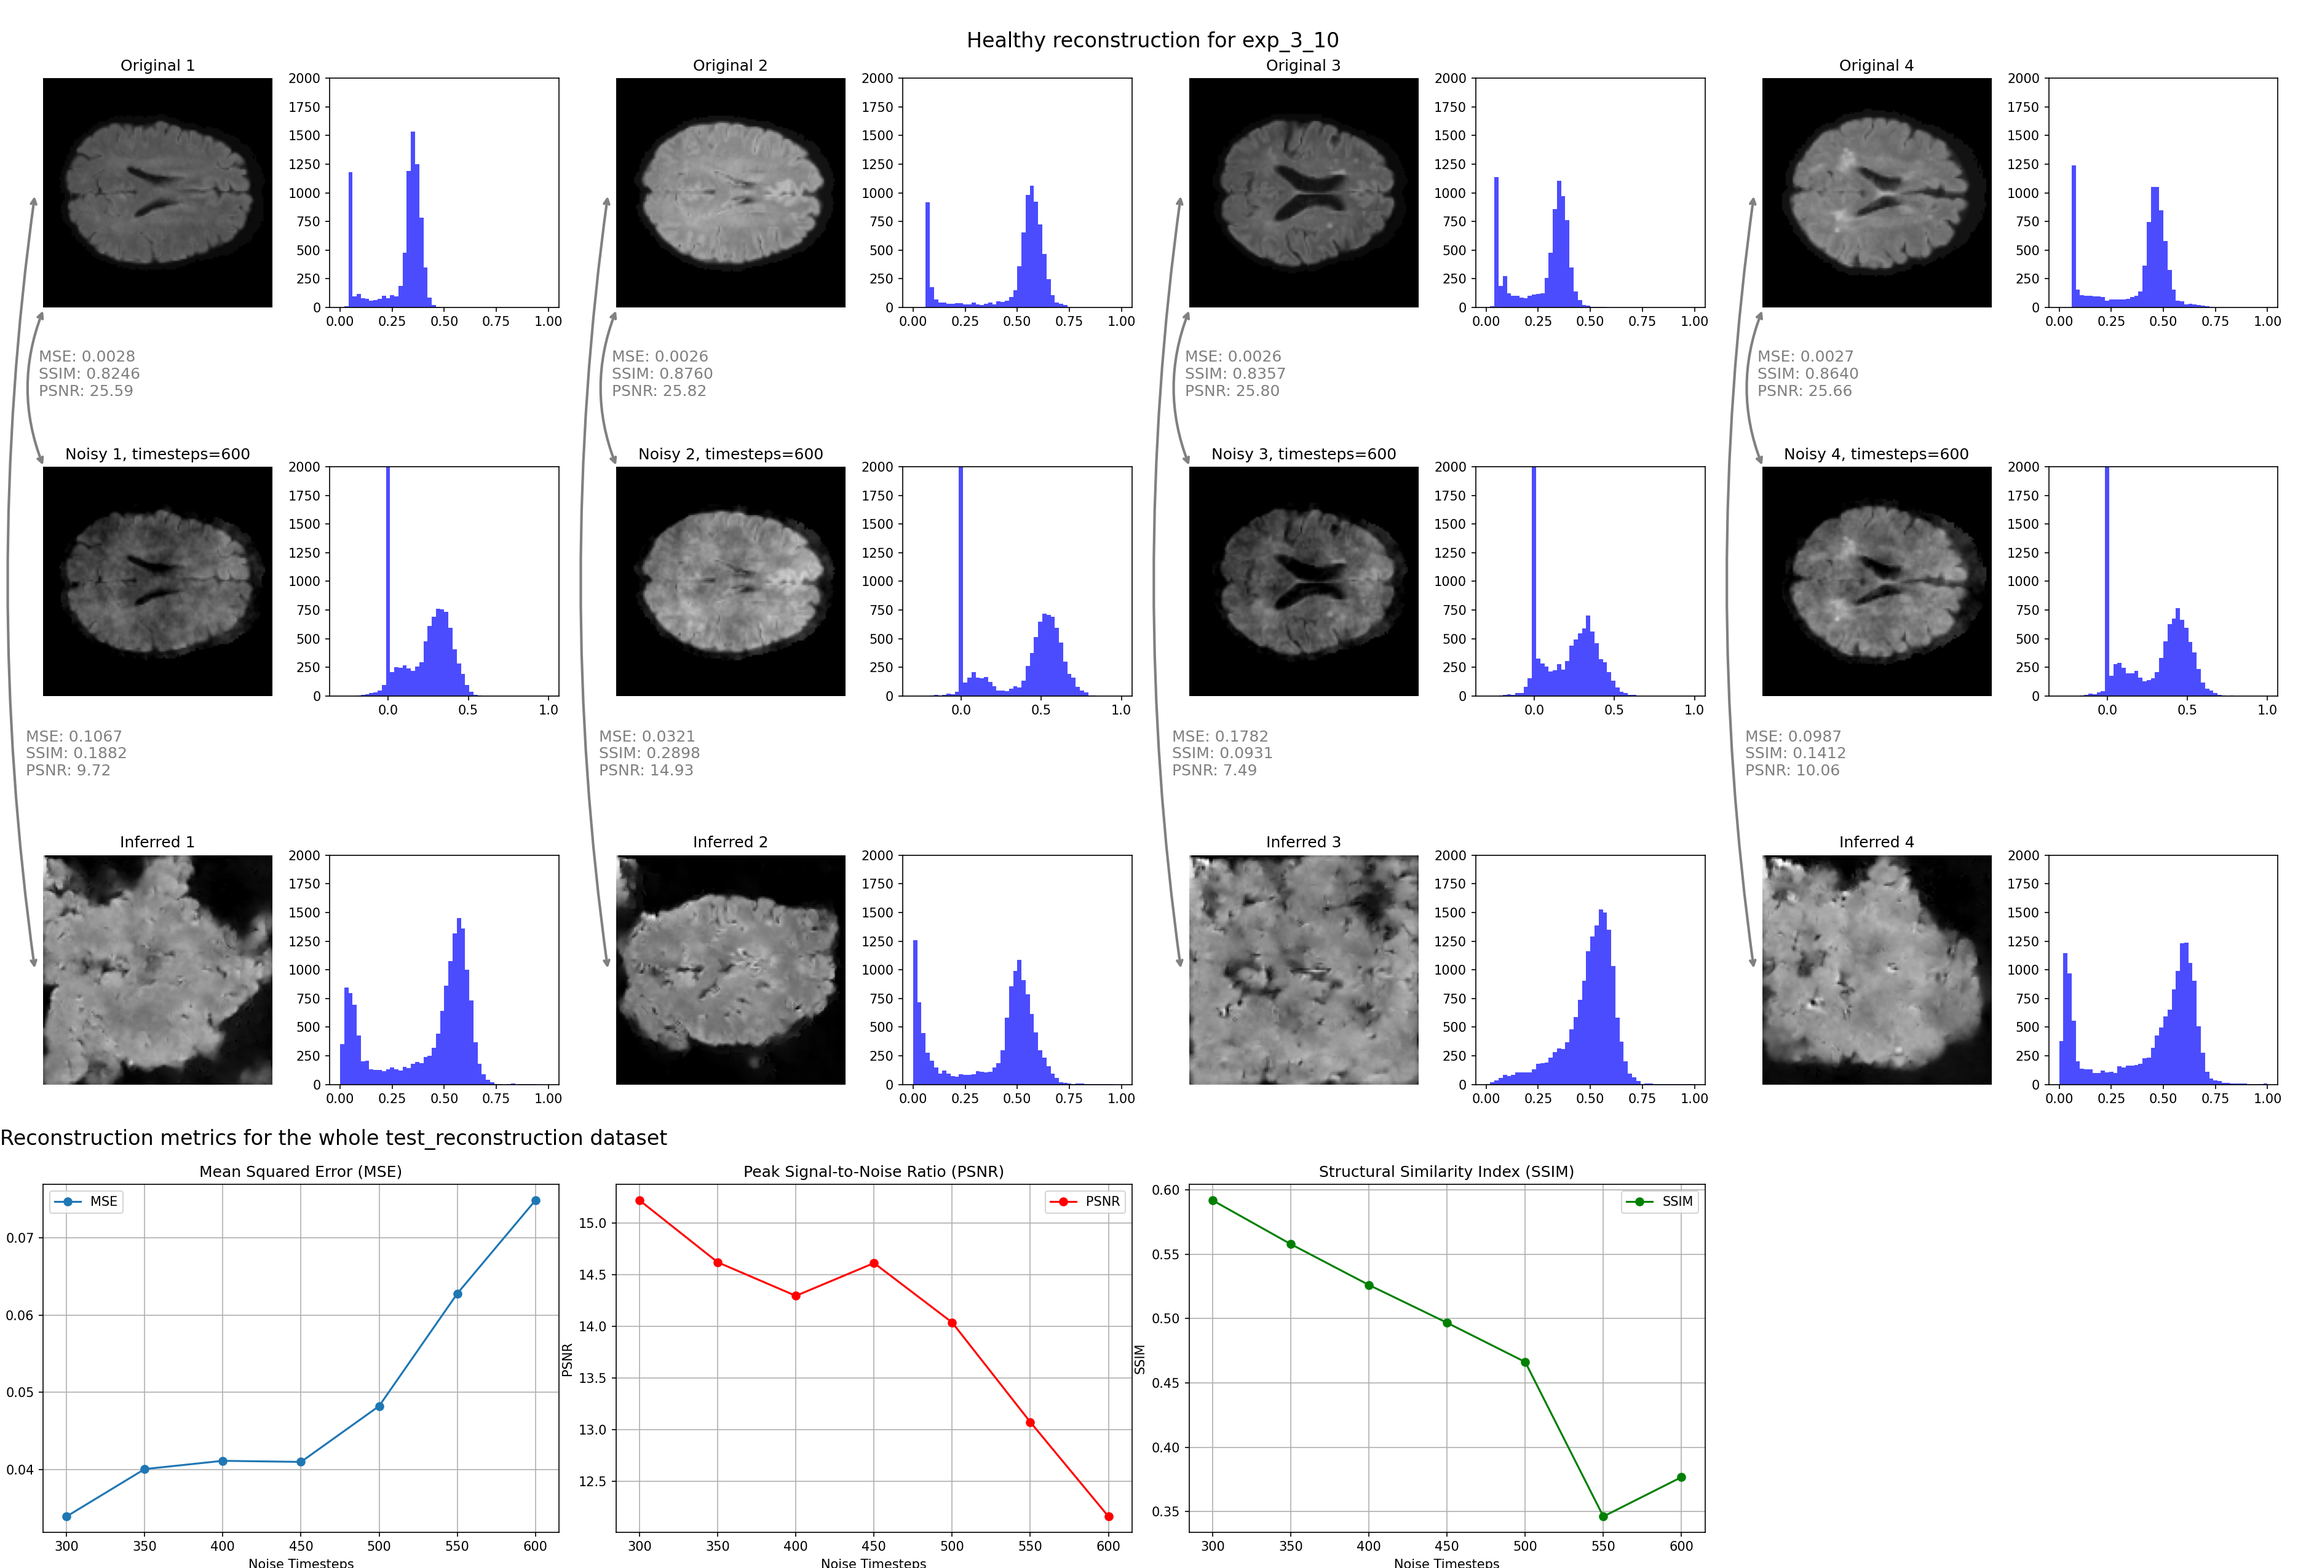
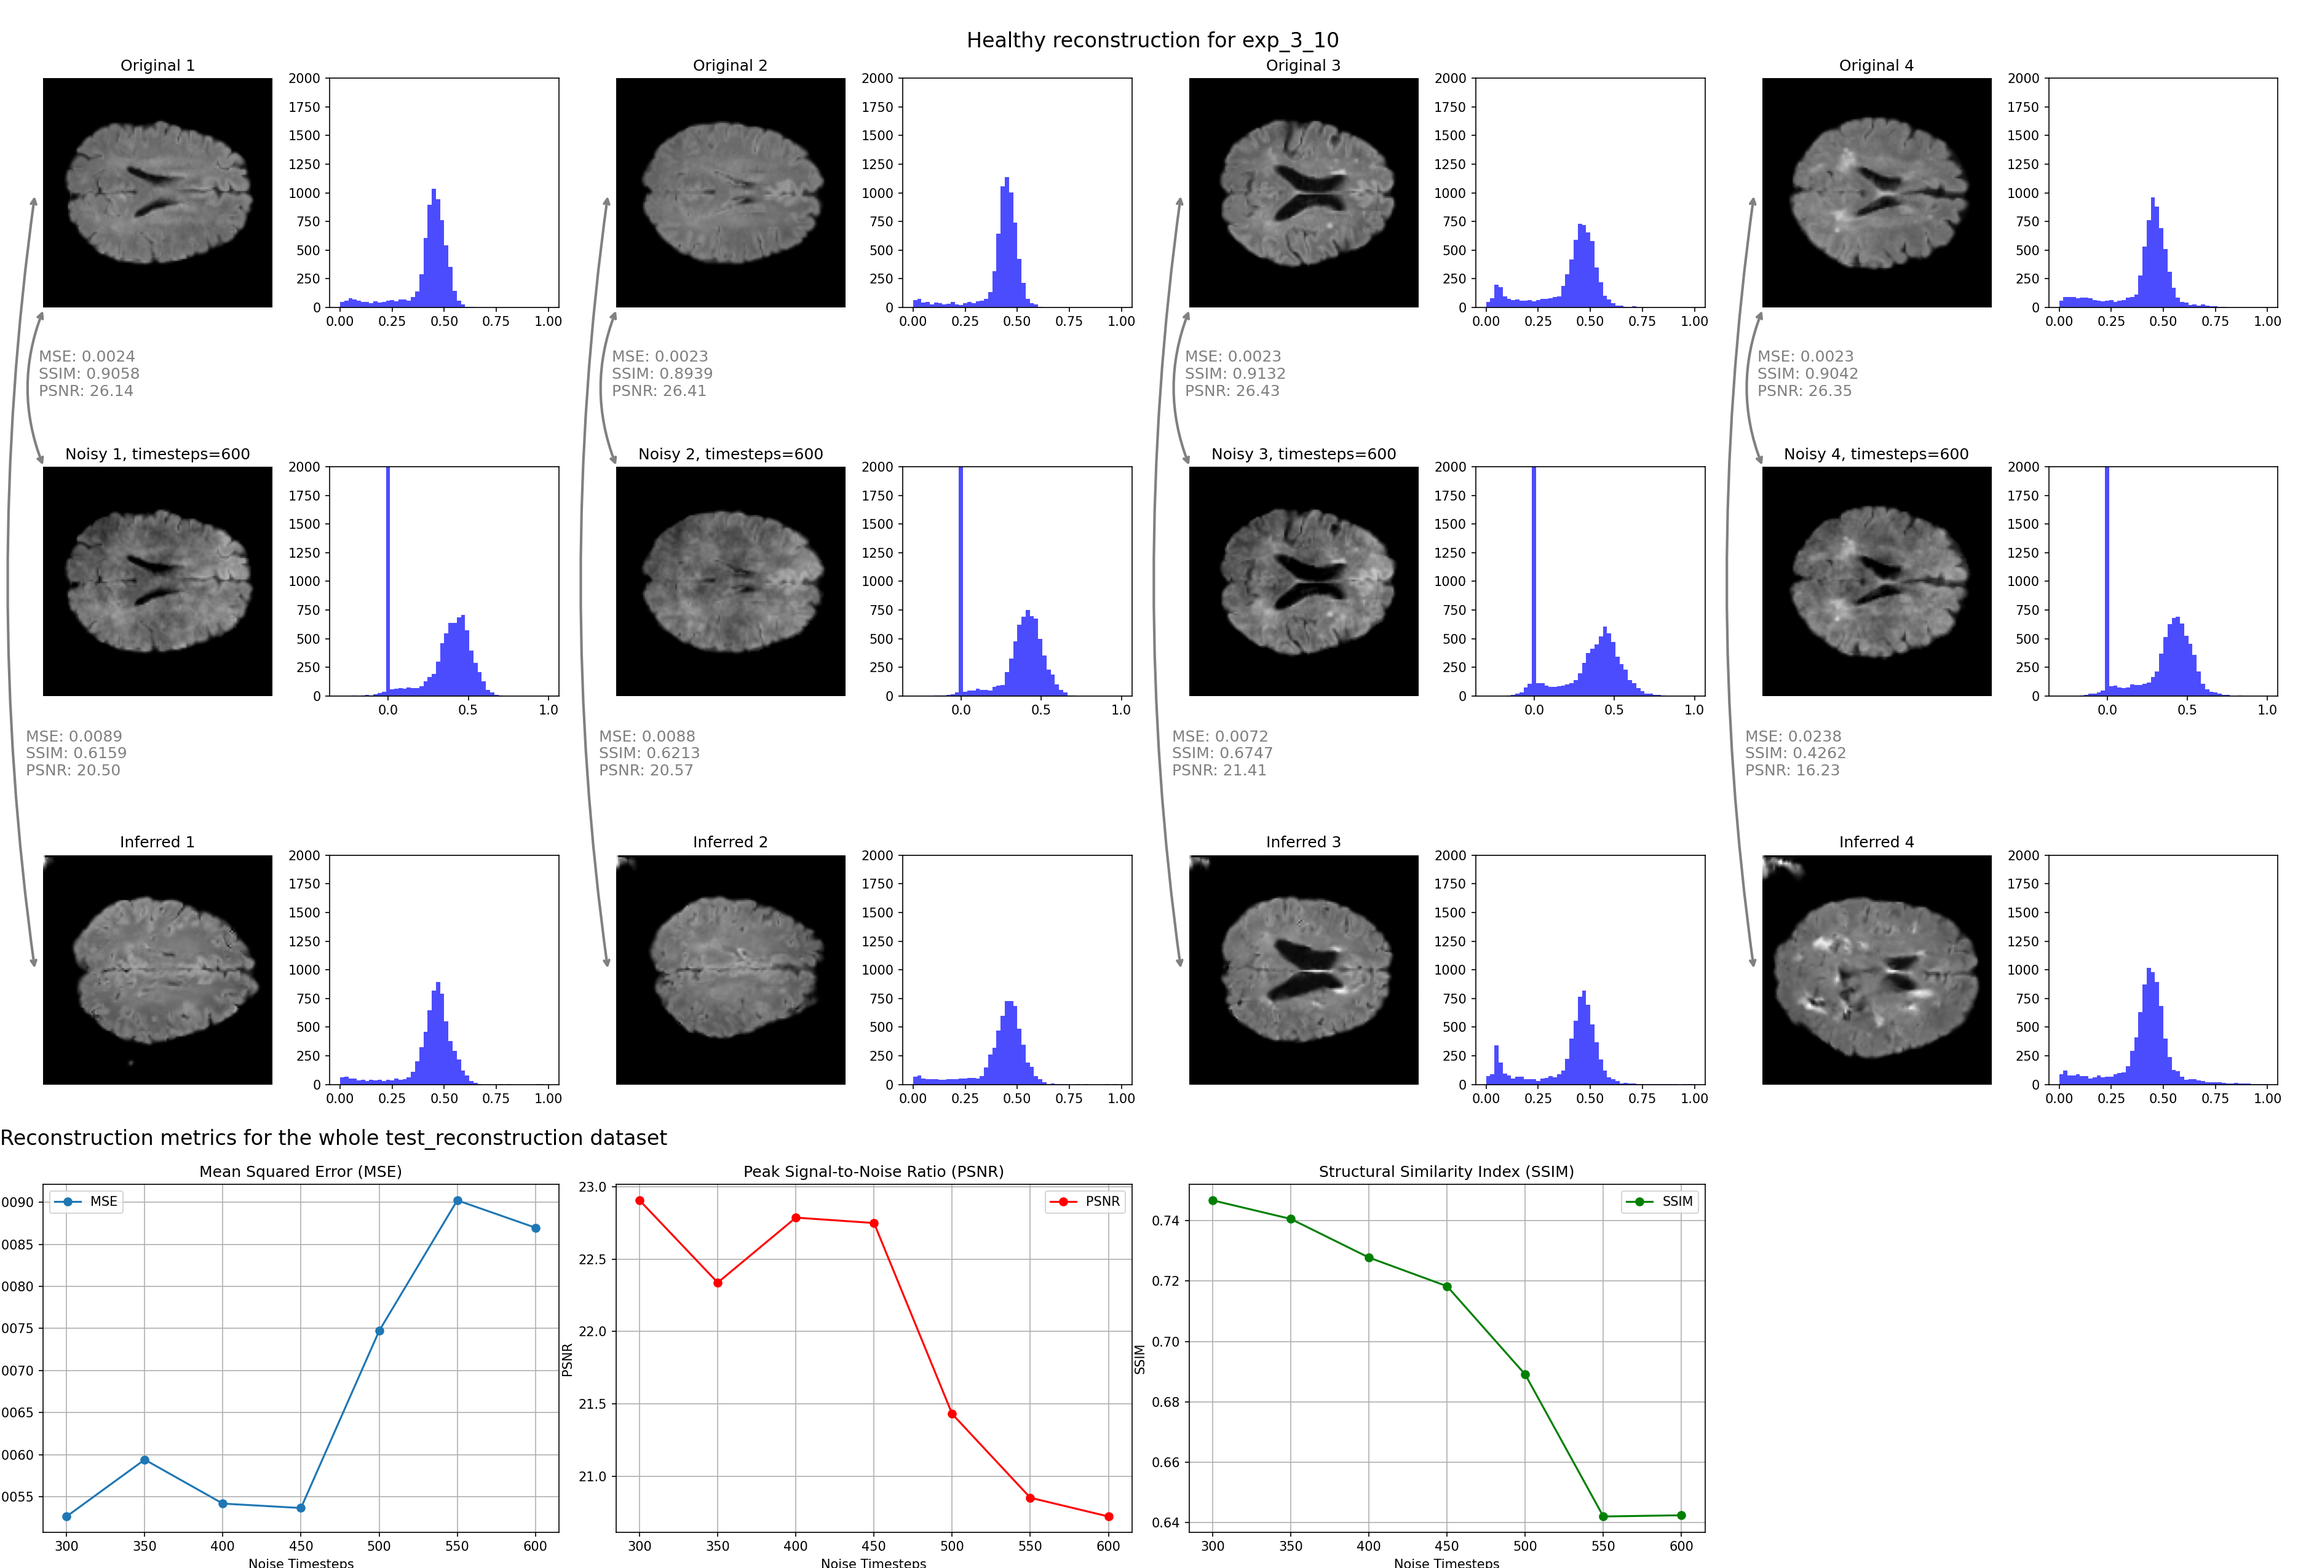
pipeline wip

diff --git a/ddpm/compute_metrics_reconstruction.py b/ddpm/compute_metrics_reconstruction.py
@@ -2,6 +2,10 @@ import os
 import time
 import glob
 import sys
+import argparse
+import json
+from pathlib import Path
+sys.path.append("../..")
 sys.path.append("..")
 #import opensimplex
 
@@ -35,6 +39,7 @@ import pandas as pd
 import utils.custom_transforms as custom_transforms
 import AnoDDPM.simplex as simplex
 import utils.simplex_ddpm as simplex_ddpm
+from utils.utils import define_instance
 
 from monai.metrics import compute_iou
 
@@ -51,11 +56,11 @@ def launch_compute_metrics_reconstruction(args):
 
     EXPERIMENT_NAME = args.experiment_name
     SUB_EXPERIMENT_NAME = args.sub_experiment_name
-    MODELS_DIR = ROOT_DIR+f"AnoDiffExperiments/best_models/{EXPERIMENT_NAME}/"
+    MODELS_DIR = ROOT_DIR+f"AnoDiffExperiments/{EXPERIMENT_NAME}/{SUB_EXPERIMENT_NAME}/models/"
 
     IMAGE_SIZE = args.image_size
 
-    model_path = f"{args.root_dir}/AnoDiffExperiments/{config_dict['experiment_name']}/{config_dict['sub_experiment_name']}/models/{SUB_EXPERIMENT_NAME}_best_model.pth"
+    model_path = f"{args.root_dir}/AnoDiffExperiments/{args['experiment_name']}/{args['sub_experiment_name']}/models/{SUB_EXPERIMENT_NAME}_best_model.pth"
 
     torch.backends.cudnn.benchmark = True
     torch.set_num_threads(torch.get_num_threads())
@@ -76,26 +81,17 @@ def launch_compute_metrics_reconstruction(args):
 
     # ----------- MODEL SETTINGS -----------
 
-        train_csv = os.path.join(ROOT_DIR, f"AnoDiffExperiments/data_splits_lists/{args.dataset["name"]}/train.csv")
-    train_images_path = []
+    test_reconstruction_csv = os.path.join(ROOT_DIR, f"AnoDiffExperiments/data_splits_lists/{args.dataset["name"]}/test.csv")
+    test_reconstruction_images_path = []
 
-    with open(train_csv, mode='r') as file:
+    with open(test_reconstruction_csv, mode='r') as file:
         reader = csv.reader(file)
         for line in tqdm(reader):
             #print(line)
-            train_images_path.append(ROOT_DIR+line[0])
+            test_reconstruction_images_path.append(ROOT_DIR+line[0])
 
-    val_csv = os.path.join(ROOT_DIR, f"AnoDiffExperiments/data_splits_lists/{args.dataset["name"]}/val.csv")
-    val_images_path = []
-
-    with open(val_csv, mode='r') as file:
-        reader = csv.reader(file)
-        for line in tqdm(reader):
-
-            val_images_path.append(ROOT_DIR+line[0])
-
-    #train_datalist = sorted(train_images_path)
-    train_datalist = train_images_path
+    #test_reconstruction_datalist = sorted(test_reconstruction_images_path)
+    test_reconstruction_datalist = test_reconstruction_images_path
 
     #val_datalist = sorted(val_images_path)
     val_datalist = val_images_path
@@ -107,23 +103,16 @@ def launch_compute_metrics_reconstruction(args):
 
 
     # transforms
-    train_tansforms_list = []
-
-    for transform in args.dataset["train_transforms"]:
-        train_transforms_list.append(define_instance(args, "transform"))
-
-    train_transforms = Compose(train_transforms_list)
-    train_ds = CacheDataset(data=train_datalist, transform=train_transforms)
+    test_reconstruction_transforms = define_instance(args, "test_reconstruction_transforms")
+    test_reconstruction_ds = CacheDataset(data=test_reconstruction_datalist, transform=test_reconstruction_transforms)
 
     if ddp_bool:
-        train_sampler = torch.utils.data.distributed.DistributedSampler(train_ds, num_replicas=world_size, rank=rank)
-        val_sampler = torch.utils.data.distributed.DistributedSampler(val_ds, num_replicas=world_size, rank=rank)
+        test_reconstruction_sampler = torch.utils.data.distributed.DistributedSampler(test_reconstruction_ds, num_replicas=world_size, rank=rank)
     else:
-        train_sampler = None
-        val_sampler = None
+        test_reconstruction_sampler = None
     
-    train_loader = DataLoader(
-        train_ds, batch_size=batch_size, shuffle=(not ddp_bool), num_workers=num_workers, pin_memory=True, sampler=train_sampler
+    test_reconstruction_loader = DataLoader(
+        test_reconstruction_ds, batch_size=batch_size, shuffle=(not ddp_bool), num_workers=num_workers, pin_memory=True, sampler=test_reconstruction_sampler
     )
 
     model = define_instance(args, "network_def").to(device)
@@ -150,15 +139,6 @@ def launch_compute_metrics_reconstruction(args):
 
     model.load_state_dict(torch.load(model_path, map_location=DEVICE_TYPE))
     model.eval()
-
-    # remove "module." prefix if present (from DDP/DataParallel)
-    ckpt = {k.replace("module.", "", 1) if k.startswith("module.") else k: v for k, v in ckpt.items()}
-
-    missing_keys, unexpected_keys = model.load_state_dict(ckpt, strict=False)
-    if missing_keys or unexpected_keys:
-        print(f"load_state_dict warnings — missing: {missing_keys}, unexpected: {unexpected_keys}")
-
-
 
     @torch.no_grad()
     def my_sample(image, timesteps=100, progress_bar=True, return_first_noisy_image=False):
@@ -200,42 +180,6 @@ def launch_compute_metrics_reconstruction(args):
             return image, first_noisy_image
         else:
             return image
-
-    # ----------- DATASET -----------
-
-    test_reconstruction_csv = os.path.join(ROOT_DIR, "AnoDiffExperiments/data_splits_lists/final_flair_dataset_small/test.csv")
-    test_reconstruction_images_path = []
-
-    with open(test_reconstruction_csv, mode='r') as file:
-        reader = csv.reader(file)
-        for line in tqdm(reader):
-            #print(line)
-            test_reconstruction_images_path.append(ROOT_DIR+line[0])
-
-
-    test_reconstruction_datalist = test_reconstruction_images_path[:10]
-
-
-    #test_unhealthy_datalist = test_unhealthy_images_path
-
-    batch_size = 16
-    num_workers = 8
-
-    test_reconstruction_transforms = transforms.Compose(
-        [
-            transforms.LoadImage(),
-            transforms.EnsureChannelFirst(),
-            transforms.NormalizeIntensity(),
-            transforms.ScaleIntensity(),
-            Get2DSlice(axis=2),
-            SetBackgroundToZero(),
-            transforms.ResizeWithPadOrCrop(spatial_size=(IMAGE_SIZE, IMAGE_SIZE)),
-        ]
-    )
-    test_reconstruction_ds = CacheDataset(data=test_reconstruction_datalist, transform=test_reconstruction_transforms)
-    test_reconstruction_loader = DataLoader(
-        test_reconstruction_ds, batch_size=batch_size, shuffle=False, num_workers=num_workers, persistent_workers=True
-    )
 
     # ----------- COMPUTING METRICS -----------
 
@@ -414,5 +358,5 @@ def launch_compute_metrics_reconstruction(args):
     fig.delaxes(axes[3,6])
     fig.delaxes(axes[3,7])
 
-    plt.savefig(f"{ROOT_DIR}/AnoDiffExperiments/experiment_3/{EXPERIMENT_NAME}_metrics_reconstruction.png", transparent=False, dpi=150)
+    plt.savefig(f"{ROOT_DIR}/AnoDiffExperiments/{EXPERIMENT_NAME}/{SUB_EXPERIMENT_NAME}/{SUB_EXPERIMENT_NAME}_metrics_reconstruction.png", transparent=False, dpi=150)
 

diff --git a/ddpm/train_ddpm.py b/ddpm/train_ddpm.py
@@ -1,9 +1,12 @@
 import argparse
+import json
+from pathlib import Path
 import os
 import time
 from datetime import timedelta
 import sys
 sys.path.append("..")
+sys.path.append("../..")
 
 import numpy as np
 import csv
@@ -24,6 +27,7 @@ from torch.nn.parallel import DistributedDataParallel as DDP
 import torch.distributed as dist
 
 import utils.custom_transforms as custom_transforms
+from utils.utils import define_instance
 import AnoDDPM.simplex as simplex
 import utils.simplex_ddpm as simplex_ddpm
 
@@ -72,7 +76,8 @@ def launch_train(args):
     ROOT_DIR = args.root_dir
     EXPERIMENT_NAME = args.experiment_name
     SUB_EXPERIMENT_NAME = args.sub_experiment_name
-    MODELS_DIR = ROOT_DIR+f"AnoDiffExperiments/saved_models/{EXPERIMENT_NAME}/"
+    MODELS_DIR = ROOT_DIR+f"AnoDiffExperiments/{EXPERIMENT_NAME}/{SUB_EXPERIMENT_NAME}/models/"
+    os.makedirs(MODELS_DIR, exist_ok=True)
 
     ddp_bool = args.gpus > 1  # whether to use distributed data parallel
 
@@ -123,23 +128,12 @@ def launch_train(args):
     num_workers = args.dataset["num_workers"]
 
 
-    # transforms
-    train_tansforms_list = []
 
-    for transform in args.dataset["train_transforms"]:
-        train_transforms_list.append(define_instance(args, "transform"))
-
-    train_transforms = Compose(train_transforms_list)
+    train_transforms = define_instance(args, "train_transforms")
     train_ds = CacheDataset(data=train_datalist, transform=train_transforms)
 
 
-
-    val_tansforms_list = []
-
-    for transform in args.dataset["val_transforms"]:
-        val_transforms_list.append(define_instance(args, "transform"))
-
-    val_transforms = Compose(val_transforms_list)
+    val_transforms = define_instance(args, "val_transforms")
     val_ds = CacheDataset(data=val_datalist, transform=val_transforms)
     
 

diff --git a/experiment_3/compute_metrics_reconstruction_3_10.py b/experiment_3/compute_metrics_reconstruction_3_10.py
@@ -31,7 +31,9 @@ from monai.utils import StrEnum
 from typing import Union
 
 import pandas as pd
+import utils.custom_transforms as custom_transforms
 import AnoDDPM.simplex as simplex
+import utils.simplex_ddpm as simplex_ddpm
 
 from monai.metrics import compute_iou
 
@@ -359,13 +361,14 @@ num_workers = 8
 
 test_reconstruction_transforms = transforms.Compose(
     [
-        transforms.LoadImage(),
+        transforms.LoadImage(image_only=True),
         transforms.EnsureChannelFirst(),
-        transforms.NormalizeIntensity(),
-        transforms.ScaleIntensity(),
-        Get2DSlice(axis=2),
-        SetBackgroundToZero(),
+        custom_transforms.Get2DSlice(axis=2),
         transforms.ResizeWithPadOrCrop(spatial_size=(IMAGE_SIZE, IMAGE_SIZE)),
+        custom_transforms.ScaleIntensityFromHistogramPeak(target_value=200.0),
+        transforms.ScaleIntensityRange(a_min=0.0, a_max=450.0, b_min=0.0, b_max=1.0, clip=True),
+        custom_transforms.SetBackgroundToZero(),
+        #transforms.EnsureType(device=device, track_meta=False)
     ]
 )
 test_reconstruction_ds = CacheDataset(data=test_reconstruction_datalist, transform=test_reconstruction_transforms)

diff --git a/ddpm/launch_pipeline.py b/ddpm/launch_pipeline.py
@@ -1,9 +1,13 @@
 
 import os
+import argparse
+import json
+from pathlib import Path
 from train_ddpm import launch_train
 from compute_metrics_reconstruction import launch_compute_metrics_reconstruction
 
 def main():
+    parser = argparse.ArgumentParser(description="DDPM training script")
     parser.add_argument(
         "-c",
         "--config-file",
@@ -11,7 +15,7 @@ def main():
         help="config json file that stores hyper-parameters",
     )
 
-    parser = argparse.ArgumentParser(description="DDPM training script")
+    
     parser.add_argument("-g", "--gpus", default=1, type=int, help="number of gpus per node")
     
     args = parser.parse_args()

diff --git a/utils/utils.py b/utils/utils.py
@@ -1,0 +1,17 @@
+from monai.bundle import ConfigParser
+from monai.data import DataLoader
+from monai.transforms import (
+    Compose,
+    EnsureChannelFirst,
+    LoadImage,
+)
+import sys
+sys.path.append("..")
+sys.path.append("../..")
+from utils.custom_transforms import Get2DSlice, Get2DSliceWithRandomOffset, SetBackgroundToZero
+
+
+def define_instance(args, instance_def_key):
+    parser = ConfigParser(vars(args))
+    parser.parse(True)
+    return parser.get_parsed_content(instance_def_key, instantiate=True)

diff --git a/dataset_preprocessing/convert_dicom_to_nifti.py b/dataset_preprocessing/convert_dicom_to_nifti.py
@@ -1,0 +1,14 @@
+import pydicom
+import nibabel as nib
+import dicom2nifti
+import os
+
+#ROOT_DIR = "/home/fehrdelt/bettik/"
+ROOT_DIR = "/bettik/PROJECTS/pr-gin5_aini/fehrdelt/"
+
+dicom_directory = ROOT_DIR+'datasets/fastMRI_brain_DICOM/'
+output_file = 'output/path/for/nifti_file.nii'
+
+dicom2nifti.convert_directory(dicom_directory, os.path.dirname(output_file))
+
+# The NIfTI file will be saved in the specified output directory
